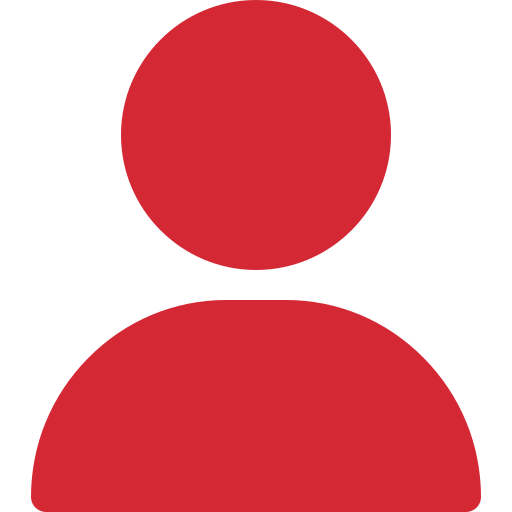
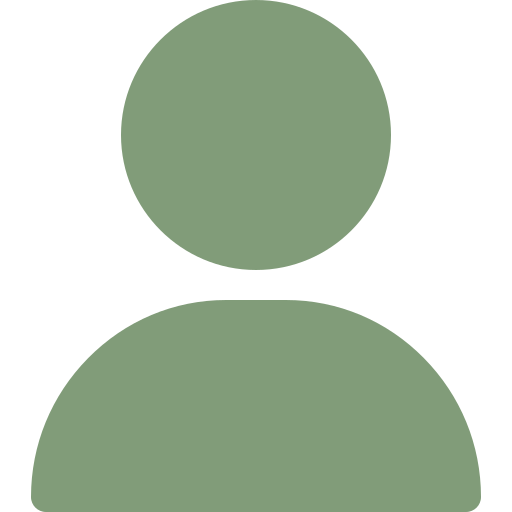
changing the user profile UI, and the sreen color

diff --git a/screens/Profile.js b/screens/Profile.js
@@ -75,10 +75,10 @@ const Profile = () => {
         <ProfileIconUI
           name='log-out'
           size={24}
-          color={GlobalStyles.colors.gray800}
+          color="#819c79"
           onPress={signoutHandler}
           text='Sign Out'
-          bg='#fff'
+          bg={GlobalStyles.colors.gray200}
         />
       </View>
     </View>
@@ -90,6 +90,7 @@ export default Profile;
 const styles = StyleSheet.create({
   screen: {
     flex: 1,
+    backgroundColor: "#000"
   },
   screenChild: {
     alignItems: "center",
@@ -97,14 +98,8 @@ const styles = StyleSheet.create({
   },
   screen2: {
     padding: 10,
-    backgroundColor: GlobalStyles.colors.primary50,
     height: "100%",
-    borderTopLeftRadius: 40,
-    borderTopRightRadius: 40,
-    elevation: 6,
-    shadowColor: "black",
-    shadowOffset: { width: 0, height: 2 },
-    shadowRadius: 6,
-    shadowOpacity: 0.26,
+    borderTopWidth: 1,
+    borderColor: GlobalStyles.colors.gray300,
   },
 });

diff --git a/UI/ProfileIcon.js b/UI/ProfileIcon.js
@@ -14,7 +14,7 @@ const ProfileIconUI = ({onPress, color, name, size, text, bg}) => {
        <Text style={styles.text}>{text}</Text>
           </View>
        <View>
-       <Ionicons name="chevron-forward" size={24} color="black" />
+       <Ionicons name="chevron-forward-circle" size={32} color="#819c79" />
        </View>
       </Pressable>
     </View>
@@ -47,7 +47,7 @@ const styles = StyleSheet.create({
         padding: 10,
     },
     pressed: {
-        opacity: 0.25,
+        opacity: 0.5,
 
     },
 

diff --git a/components/UserName.js b/components/UserName.js
@@ -32,12 +32,12 @@ const styles = StyleSheet.create({
     text: {
         fontWeight: "bold",
         textAlign: "center",
-        color: GlobalStyles.colors.gray800,
+        color: GlobalStyles.colors.gray300,
         fontSize: 20,
     },
     text2: {
         textAlign: "center",
-        color: GlobalStyles.colors.gray500,
+        color: GlobalStyles.colors.gray300,
         fontSize: 16,
         fontFamily: 'Pacifico'
     }

diff --git a/components/ProfilePic.js b/components/ProfilePic.js
@@ -22,7 +22,7 @@ const styles = StyleSheet.create({
         width: 150,
         height: 150,
         borderRadius: 75,
-        backgroundColor: GlobalStyles.colors.primary50,
+        backgroundColor: GlobalStyles.colors.gray200,
         justifyContent: "center",
         alignItems: "center",
     },

diff --git a/UI/FlatButton.js b/UI/FlatButton.js
@@ -22,7 +22,7 @@ const styles = StyleSheet.create({
         overflow: 'hidden',
     },
     button: {
-        backgroundColor: "#9cacff",
+        backgroundColor: "#819c79",
         paddingVertical: 16,
     },
 
